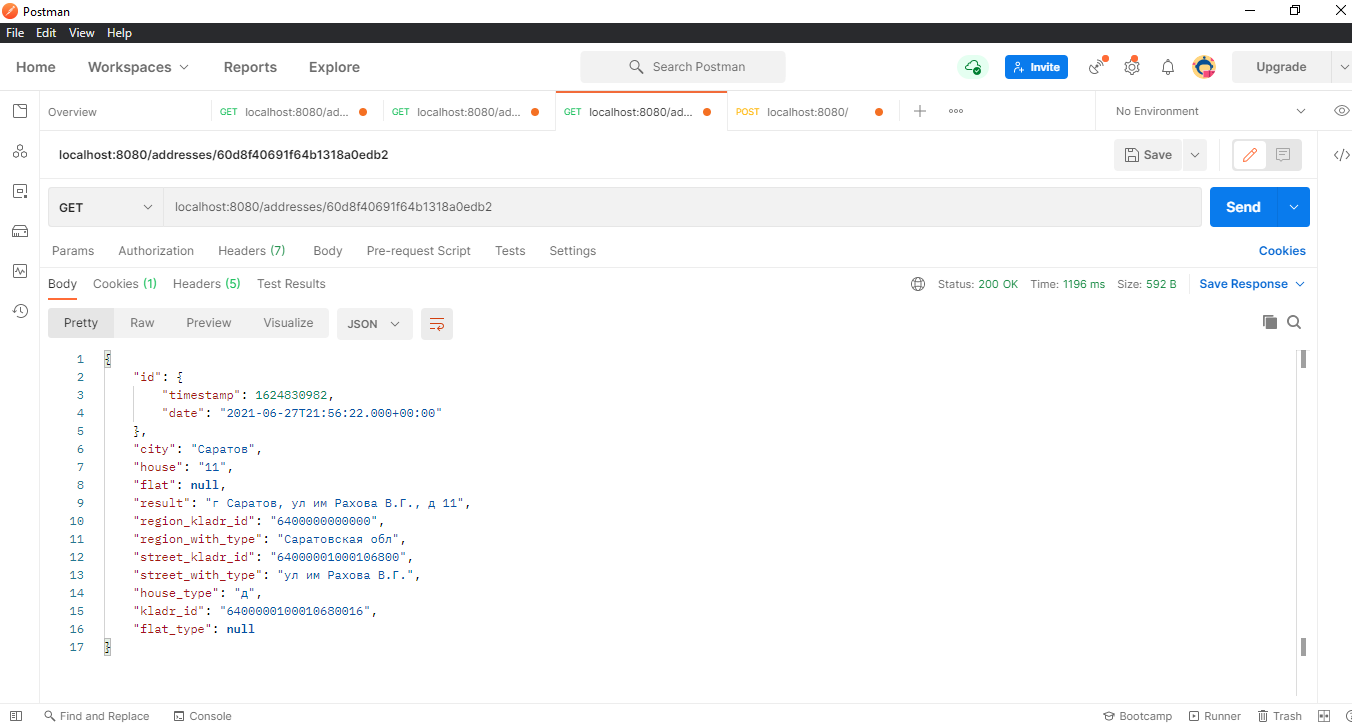
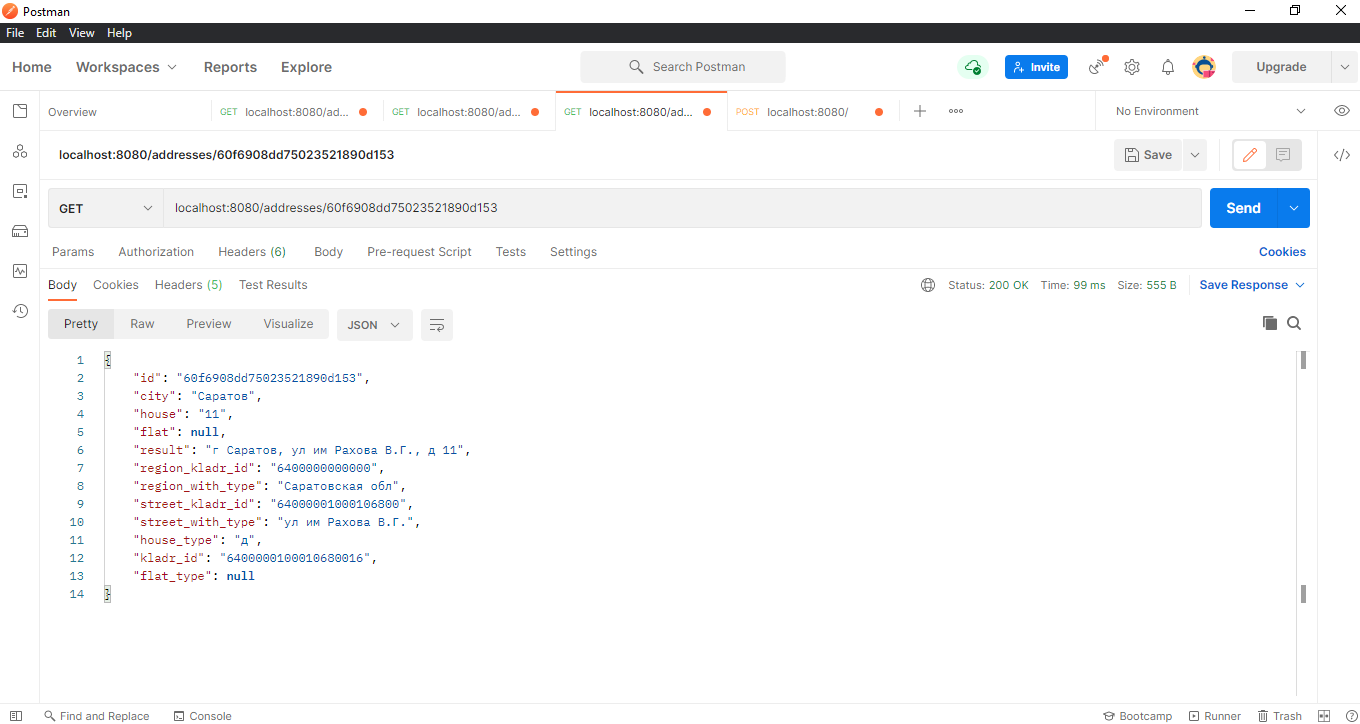
make edits commit 5

diff --git a/src/main/java/com/exchristmas/dadataaddressesintegration/service/impl/DaDataServiceImpl.java b/src/main/java/com/exchristmas/dadataaddressesintegration/service/impl/DaDataServiceImpl.java
@@ -7,6 +7,8 @@ import org.springframework.http.*;
 import org.springframework.stereotype.Service;
 import org.springframework.web.client.RestTemplate;
 
+import java.util.Objects;
+
 @Service
 public class DaDataServiceImpl implements DaDataService {
 
@@ -48,10 +50,8 @@ public class DaDataServiceImpl implements DaDataService {
             throw new DaDataException(DaDataErrorCode.BIG_LENGTH_REQUEST);
         Address addressFromDaData = cleanAddress(source);
         if (addressFromDaData != null) {
-            if (!addressRepository.findByFullAddress(addressFromDaData.getFullAddress()).isEmpty())
-                return addressFromDaData;
-            else
-                return addressRepository.insert(addressFromDaData);
+            Address addressFromDb = addressRepository.findByFullAddress(addressFromDaData.getFullAddress());
+            return Objects.requireNonNullElseGet(addressFromDb, () -> addressRepository.insert(addressFromDaData));
         } else {
             throw new DaDataException(DaDataErrorCode.EMPTY_RESPONSE);
         }

diff --git a/src/main/java/com/exchristmas/dadataaddressesintegration/repos/AddressRepository.java b/src/main/java/com/exchristmas/dadataaddressesintegration/repos/AddressRepository.java
@@ -9,7 +9,6 @@ import java.util.List;
 
 public interface AddressRepository extends MongoRepository<Address, ObjectId> {
 
-    @Query("{ 'fullAddress' : ?0 }")
-    List<Address> findByFullAddress(String fullAddress);
+    Address findByFullAddress(String fullAddress);
 
 }

diff --git a/README.md b/README.md
@@ -24,5 +24,4 @@ mvn exec:java -Dexec.mainClass="com.exchristmas.dadataaddressesintegration.DaDat
 <div>Results HTTP requests:</div>
 
 ![Alt-текст](https://github.com/ExChristmas/DaDataAddressesIntegration/blob/master/POST_REQUEST.png?raw=true)
-![Alt-текст](https://github.com/ExChristmas/DaDataAddressesIntegration/blob/master/REPEATED_POST_REQUEST.png?raw=true)
 ![Alt-текст](https://github.com/ExChristmas/DaDataAddressesIntegration/blob/master/GET_REQUEST.png?raw=true)
